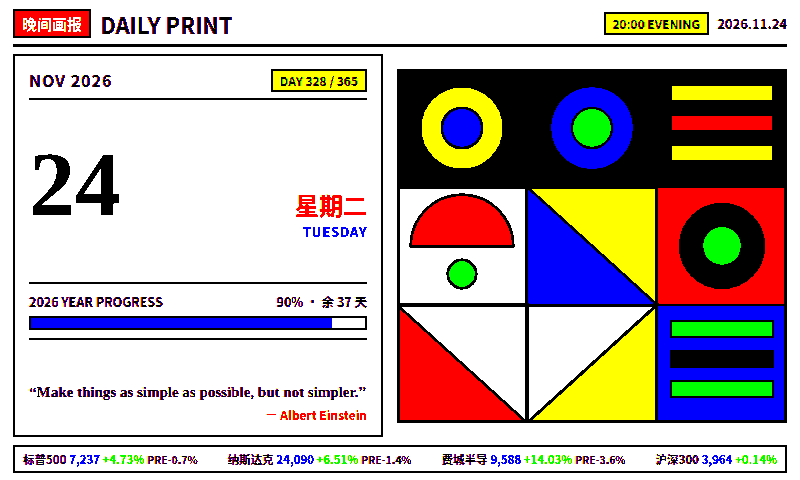
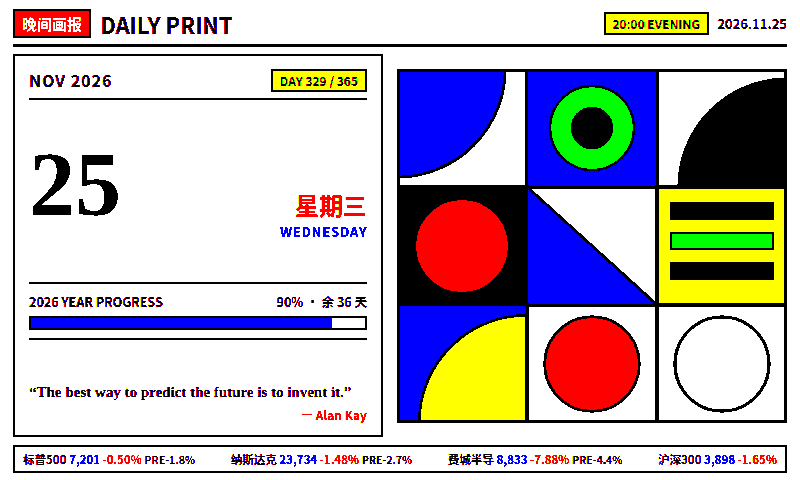
Update E1002 board (2026-11-25 19:46 CST)

diff --git a/docs/hn_render.html b/docs/hn_render.html
@@ -52,223 +52,118 @@
     font-size: 11.5px; font-weight: 800;
   }
 
-  .tiles {
-    display: grid; grid-template-columns: repeat(4, 1fr); gap: 6px;
-    margin-bottom: 8px;
+  .ev-body {
+    display: grid; grid-template-columns: 370px 390px; gap: 14px;
+    flex: 1; min-height: 0; align-items: stretch;
   }
-  .tile {
-    border: 2px solid var(--ink); padding: 4px 6px;
-    display: flex; flex-direction: column; gap: 1px;
+  .cal-panel {
+    display: flex; flex-direction: column; justify-content: space-between;
+    border: 2px solid var(--ink); padding: 12px 14px;
   }
-  .t-top { display: flex; justify-content: space-between; align-items: baseline; }
-  .t-name { font-size: 12px; font-weight: 900; }
-  .t-px { font-size: 12px; font-weight: 900; color: var(--blue); font-variant-numeric: tabular-nums; }
-  .t-mid { font-size: 14px; font-weight: 900; font-variant-numeric: tabular-nums; line-height: 1.15; }
-  .t-ext { font-size: 10.5px; font-weight: 800; font-variant-numeric: tabular-nums; }
-
-  .hn-sec-head {
+  .cal-top {
     display: flex; justify-content: space-between; align-items: center;
-    border-bottom: 2px solid var(--ink); padding-bottom: 3px; margin-bottom: 4px;
+    border-bottom: 2px solid var(--ink); padding-bottom: 6px;
   }
-  .hn-sec-title { font-size: 14px; font-weight: 900; }
-  .hn-badge { background: var(--red); color: var(--paper); padding: 0 5px; margin-right: 6px; }
-  .hn-grid { display: grid; grid-template-columns: 1fr 1fr; gap: 14px; flex: 1; min-height: 0; }
-  .hn-col { display: flex; flex-direction: column; }
-  .hn-col-right { border-left: 2px solid var(--ink); padding-left: 14px; }
-  .hn-card {
-    flex: 1; display: flex; align-items: center; gap: 9px;
-    padding: 4px 0; border-bottom: 1px solid var(--ink);
+  .cal-month { font-size: 16px; font-weight: 900; letter-spacing: 1px; }
+  .cal-wk-tag {
+    background: var(--yellow); border: 2px solid var(--ink);
+    font-size: 12px; font-weight: 900; padding: 1px 7px;
   }
-  .hn-card:last-child { border-bottom: none; }
-  .hn-rank { font-family: Georgia, serif; font-size: 20px; font-weight: 900; width: 26px; flex-shrink: 0; }
-  .hn-hot { color: var(--red); }
-  .hn-body { flex: 1; min-width: 0; }
-  .hn-title {
-    font-size: 15px; font-weight: 800; line-height: 1.24; margin-bottom: 2px;
-    display: -webkit-box; -webkit-line-clamp: 2; -webkit-box-orient: vertical; overflow: hidden;
+  .cal-day-wrap {
+    display: flex; align-items: baseline; justify-content: space-between;
+    padding: 4px 0;
   }
-  .hn-meta { font-size: 12px; font-weight: 800; display: flex; gap: 5px; white-space: nowrap; overflow: hidden; }
-  .hn-dom { color: var(--blue); }
-  .hn-pts { color: var(--red); font-weight: 900; }
+  .cal-day-num {
+    font-family: Georgia, "Times New Roman", serif;
+    font-size: 92px; font-weight: 900; line-height: 0.95; color: var(--ink);
+  }
+  .cal-day-side { text-align: right; }
+  .cal-wk-cn { font-size: 24px; font-weight: 900; color: var(--red); }
+  .cal-wk-en { font-size: 13px; font-weight: 900; letter-spacing: 0.8px; color: var(--blue); }
+
+  .prog-box {
+    border-top: 2px solid var(--ink); border-bottom: 2px solid var(--ink);
+    padding: 8px 0;
+  }
+  .prog-head {
+    display: flex; justify-content: space-between;
+    font-size: 12.5px; font-weight: 900; margin-bottom: 5px;
+  }
+  .prog-bar {
+    width: 100%; height: 14px; border: 2px solid var(--ink); background: var(--paper);
+  }
+  .prog-fill {
+    height: 100%; width: 90%; background: var(--blue);
+  }
+
+  .quote-box { padding-top: 6px; }
+  .quote-txt {
+    font-family: Georgia, "Times New Roman", serif;
+    font-size: 15px; font-weight: 900; line-height: 1.3; margin-bottom: 4px;
+  }
+  .quote-auth { font-size: 12px; font-weight: 900; color: var(--red); text-align: right; }
+
+  .art-panel {
+    display: flex; align-items: center; justify-content: center;
+  }
+
+  .ticker-bar {
+    border: 2px solid var(--ink); background: var(--paper);
+    margin-top: 8px; padding: 4px 8px;
+    display: flex; justify-content: space-between; align-items: center;
+    font-size: 11.5px; font-weight: 800; white-space: nowrap; overflow: hidden;
+  }
+  .e-px { color: var(--blue); font-weight: 900; }
+  .e-ext { color: var(--ink); font-size: 10.5px; }
 </style>
 </head>
 <body>
   <div class="page">
     <header class="masthead">
       <div class="brand">
-        <span class="badge badge-blue">午报</span>
-        <span class="title">午间盘面 × HN</span>
+        <span class="badge">晚间画报</span>
+        <span class="title">DAILY PRINT</span>
       </div>
       <div class="meta-right">
-        <span class="edition-pill">13:00 MIDDAY</span>
-        <span class="date-str">11/25 周三 12:45 CST</span>
+        <span class="edition-pill">20:00 EVENING</span>
+        <span class="date-str">2026.11.25</span>
       </div>
     </header>
 
-    <section class="tiles">
-      
-            <div class="tile">
-              <div class="t-top">
-                <span class="t-name">标普500</span>
-                <span class="t-px">7,201</span>
-              </div>
-              <div class="t-mid"><span class="down">-0.50%</span></div>
-              <div class="t-ext"><span class="down"><span class="ext-pfx">AH </span>-0.34%</span></div>
-            </div>
-            <div class="tile">
-              <div class="t-top">
-                <span class="t-name">纳斯达克</span>
-                <span class="t-px">23,734</span>
-              </div>
-              <div class="t-mid"><span class="down">-1.48%</span></div>
-              <div class="t-ext"><span class="down"><span class="ext-pfx">AH </span>-0.48%</span></div>
-            </div>
-            <div class="tile">
-              <div class="t-top">
-                <span class="t-name">费城半导</span>
-                <span class="t-px">8,833</span>
-              </div>
-              <div class="t-mid"><span class="down">-7.88%</span></div>
-              <div class="t-ext"><span class="down"><span class="ext-pfx">AH </span>-0.88%</span></div>
-            </div>
-            <div class="tile">
-              <div class="t-top">
-                <span class="t-name">美消费XLY</span>
-                <span class="t-px">117.72</span>
-              </div>
-              <div class="t-mid"><span class="flat">--</span></div>
-              <div class="t-ext"><span class="down"><span class="ext-pfx">AH </span>-0.19%</span></div>
-            </div>
-            <div class="tile">
-              <div class="t-top">
-                <span class="t-name">沪深300</span>
-                <span class="t-px">3,926</span>
-              </div>
-              <div class="t-mid"><span class="down">-0.96%</span></div>
-              <div class="t-ext"><span class="flat">日内收盘/午盘</span></div>
-            </div>
-            <div class="tile">
-              <div class="t-top">
-                <span class="t-name">中概KWEB</span>
-                <span class="t-px">21.15</span>
-              </div>
-              <div class="t-mid"><span class="down">-1.21%</span></div>
-              <div class="t-ext"><span class="flat">日内收盘/午盘</span></div>
-            </div>
-            <div class="tile">
-              <div class="t-top">
-                <span class="t-name">A半导体</span>
-                <span class="t-px">0.729</span>
-              </div>
-              <div class="t-mid"><span class="down">-3.95%</span></div>
-              <div class="t-ext"><span class="flat">日内收盘/午盘</span></div>
-            </div>
-            <div class="tile">
-              <div class="t-top">
-                <span class="t-name">A股消费</span>
-                <span class="t-px">0.704</span>
-              </div>
-              <div class="t-mid"><span class="up">+0.14%</span></div>
-              <div class="t-ext"><span class="flat">日内收盘/午盘</span></div>
-            </div>
-    </section>
-
-    <div class="hn-sec-head">
-      <span class="hn-sec-title"><span class="hn-badge">Y</span>Hacker News 午休深度精选</span>
-      <span class="t-px">news.ycombinator.com</span>
-    </div>
-
-    <main class="hn-grid">
-      <div class="hn-col">
-        <article class="hn-card">
-          <div class="hn-rank hn-hot">01</div>
-          <div class="hn-body">
-            <div class="hn-title">The Spray Bottle</div>
-            <div class="hn-meta">
-              <span class="hn-dom">mechanical-pencil.com</span>
-              <span>·</span>
-              <span class="hn-pts">▲409</span>
-              <span>·</span>
-              <span>106 cmts</span>
-            </div>
+    <main class="ev-body">
+      <section class="cal-panel">
+        <div class="cal-top">
+          <span class="cal-month">NOV 2026</span>
+          <span class="cal-wk-tag">DAY 329 / 365</span>
+        </div>
+        <div class="cal-day-wrap">
+          <div class="cal-day-num">25</div>
+          <div class="cal-day-side">
+            <div class="cal-wk-cn">星期三</div>
+            <div class="cal-wk-en">WEDNESDAY</div>
           </div>
-        </article>
+        </div>
+        <div class="prog-box">
+          <div class="prog-head">
+            <span>2026 YEAR PROGRESS</span>
+            <span>90% · 余 36 天</span>
+          </div>
+          <div class="prog-bar"><div class="prog-fill"></div></div>
+        </div>
+        <div class="quote-box">
+          <div class="quote-txt">“The best way to predict the future is to invent it.”</div>
+          <div class="quote-auth">— Alan Kay</div>
+        </div>
+      </section>
 
-        <article class="hn-card">
-          <div class="hn-rank hn-hot">02</div>
-          <div class="hn-body">
-            <div class="hn-title">Ternary Bonsai 2.5 27B</div>
-            <div class="hn-meta">
-              <span class="hn-dom">prismml.com</span>
-              <span>·</span>
-              <span class="hn-pts">▲378</span>
-              <span>·</span>
-              <span>129 cmts</span>
-            </div>
-          </div>
-        </article>
-
-        <article class="hn-card">
-          <div class="hn-rank">03</div>
-          <div class="hn-body">
-            <div class="hn-title">GTA 6 Running on Windows</div>
-            <div class="hn-meta">
-              <span class="hn-dom">twitter.com</span>
-              <span>·</span>
-              <span class="hn-pts">▲326</span>
-              <span>·</span>
-              <span>424 cmts</span>
-            </div>
-          </div>
-        </article></div>
-      <div class="hn-col hn-col-right">
-        <article class="hn-card">
-          <div class="hn-rank">04</div>
-          <div class="hn-body">
-            <div class="hn-title">Matrix Multiplication is Θ(n^2.25) [pdf]</div>
-            <div class="hn-meta">
-              <span class="hn-dom">github.com</span>
-              <span>·</span>
-              <span class="hn-pts">▲298</span>
-              <span>·</span>
-              <span>133 cmts</span>
-            </div>
-          </div>
-        </article>
-
-        <article class="hn-card">
-          <div class="hn-rank">05</div>
-          <div class="hn-body">
-            <div class="hn-title">Active intrusion campaign against Check Point security management servers</div>
-            <div class="hn-meta">
-              <span class="hn-dom">greynoise.io</span>
-              <span>·</span>
-              <span class="hn-pts">▲272</span>
-              <span>·</span>
-              <span>139 cmts</span>
-            </div>
-          </div>
-        </article>
-
-        <article class="hn-card">
-          <div class="hn-rank">06</div>
-          <div class="hn-body">
-            <div class="hn-title">GPT-6 models demonstrate intrinsic protein-design capabilities</div>
-            <div class="hn-meta">
-              <span class="hn-dom">openai.com</span>
-              <span>·</span>
-              <span class="hn-pts">▲213</span>
-              <span>·</span>
-              <span>65 cmts</span>
-            </div>
-          </div>
-        </article></div>
+      <section class="art-panel">
+        <svg xmlns="http://www.w3.org/2000/svg" width="390" height="354" viewBox="0 0 390 354"><rect x="0" y="0" width="130" height="118" fill="#FFFFFF" stroke="#000000" stroke-width="3"/><path d="M 0 0 L 108 0 A 108 108 0 0 1 0 108 Z" fill="#0000FF" stroke="#000000" stroke-width="3"/><rect x="130" y="0" width="130" height="118" fill="#0000FF" stroke="#000000" stroke-width="3"/><circle cx="195" cy="59" r="42" fill="#00FF00" stroke="#000000" stroke-width="3"/><circle cx="195" cy="59" r="20" fill="#000000" stroke="#000000" stroke-width="3"/><rect x="260" y="0" width="130" height="118" fill="#FFFFFF" stroke="#000000" stroke-width="3"/><path d="M 390 118 L 282 118 A 108 108 0 0 1 390 10 Z" fill="#000000" stroke="#000000" stroke-width="3"/><rect x="0" y="118" width="130" height="118" fill="#000000" stroke="#000000" stroke-width="3"/><circle cx="65" cy="177" r="47" fill="#FF0000" stroke="#000000" stroke-width="3"/><rect x="130" y="118" width="130" height="118" fill="#FFFFFF" stroke="#000000" stroke-width="3"/><polygon points="130,118 260,236 130,236" fill="#0000FF" stroke="#000000" stroke-width="3"/><rect x="260" y="118" width="130" height="118" fill="#FFFF00" stroke="#000000" stroke-width="3"/><rect x="274" y="134" width="102" height="16" fill="#000000" stroke="#000000" stroke-width="2"/><rect x="274" y="164" width="102" height="16" fill="#00FF00" stroke="#000000" stroke-width="2"/><rect x="274" y="194" width="102" height="16" fill="#000000" stroke="#000000" stroke-width="2"/><rect x="0" y="236" width="130" height="118" fill="#0000FF" stroke="#000000" stroke-width="3"/><path d="M 130 354 L 22 354 A 108 108 0 0 1 130 246 Z" fill="#FFFF00" stroke="#000000" stroke-width="3"/><rect x="130" y="236" width="130" height="118" fill="#FFFFFF" stroke="#000000" stroke-width="3"/><circle cx="195" cy="295" r="47" fill="#FF0000" stroke="#000000" stroke-width="3"/><rect x="260" y="236" width="130" height="118" fill="#FFFFFF" stroke="#000000" stroke-width="3"/><circle cx="325" cy="295" r="47" fill="#FFFFFF" stroke="#000000" stroke-width="3"/><rect x="1.5" y="1.5" width="387" height="351" fill="none" stroke="#000000" stroke-width="3"/></svg>
+      </section>
     </main>
 
-    <footer class="footer">
-      <span><span class="up">▲绿涨</span> <span class="down">▼红跌</span> · 午间档 13:00 · 晚 20:00 切换艺术画报</span>
-      <span>reTerminal E1002 · Spectra 6 Crisp</span>
-    </footer>
+    <div class="ticker-bar">
+      <span class="e-tick"><b>标普500</b> <span class="e-px">7,201</span> <span class="down">-0.50%</span> <span class="e-ext">PRE-1.8%</span></span><span class="e-tick"><b>纳斯达克</b> <span class="e-px">23,734</span> <span class="down">-1.48%</span> <span class="e-ext">PRE-2.7%</span></span><span class="e-tick"><b>费城半导</b> <span class="e-px">8,833</span> <span class="down">-7.88%</span> <span class="e-ext">PRE-4.4%</span></span><span class="e-tick"><b>沪深300</b> <span class="e-px">3,898</span> <span class="down">-1.65%</span></span>
+    </div>
   </div>
 </body>
 </html>
